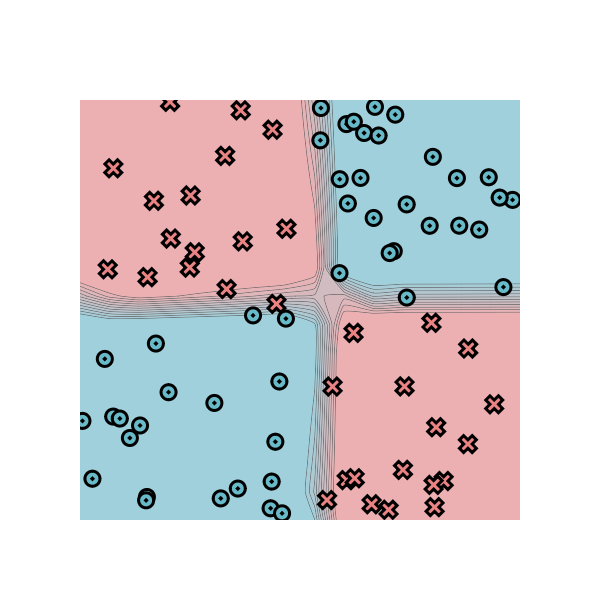
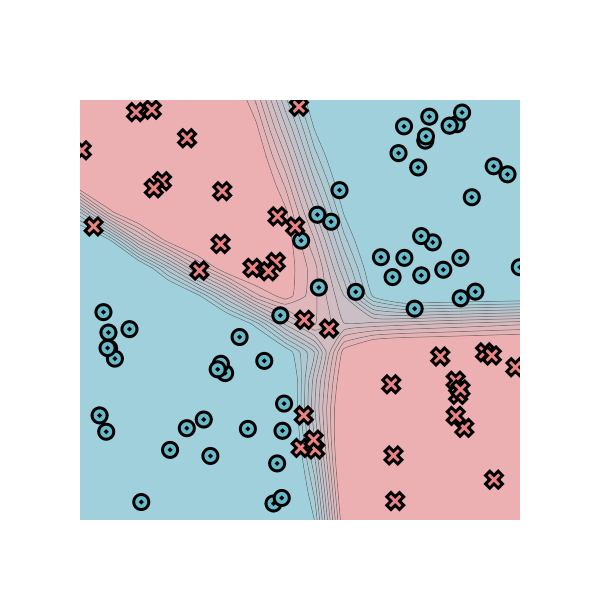
update

diff --git a/project/run_tensor.py b/project/run_tensor.py
@@ -31,9 +31,11 @@ class Linear(minitorch.Module):
     def __init__(self, in_size, out_size):
         super().__init__()
 
-        self.weights = self.add_parameter("weights", minitorch.rand((in_size, out_size), requires_grad=True))
+        self.weights = RParam(in_size, out_size)
+        self.weights.name = "weights"
 
-        self.bias = self.add_parameter("bias", minitorch.rand((out_size, ), requires_grad=True))
+        self.bias = RParam(out_size,)
+        self.bias.name = "bias"
 
 
     def forward(self, inputs):

diff --git a/minitorch/tensor_functions.py b/minitorch/tensor_functions.py
@@ -140,7 +140,7 @@ class Sigmoid(Function):
     @staticmethod
     def backward(ctx: Context, grad_output: Tensor) -> Tensor:
         """Backward for sigmoid."""
-        (out, ) = ctx.saved_values
+        (out,) = ctx.saved_values
         # out * (1 - out) * c
         # Why do this? I don't want to store context or history in backwards operations
         minus1 = minitorch.Tensor.make([-1.0], (1,), backend=grad_output.backend)

diff --git a/README.md b/README.md
@@ -232,66 +232,68 @@ Images:
 
 ## Xor Model
 
+Note that at this point, I switched to using RParam instead of my original, which just called rand() and did not recenter the mean. This seems to do much better.
+
 Parameters:
 
-    PTS = 80
+    PTS = 90
     DATASET = minitorch.datasets["Xor"](PTS)
-    HIDDEN = 6
+    HIDDEN = 8
     RATE = 0.5
 
 Log:
 
     Epoch: 0/500, loss: 0, correct: 0
-    Epoch: 10/500, loss: 49.09923021586721, correct: 48
-    Epoch: 20/500, loss: 45.1100866130393, correct: 61
-    Epoch: 30/500, loss: 39.831901960180055, correct: 69
-    Epoch: 40/500, loss: 34.811831907292984, correct: 69
-    Epoch: 50/500, loss: 30.630520232016938, correct: 70
-    Epoch: 60/500, loss: 31.12011916779207, correct: 65
-    Epoch: 70/500, loss: 26.275978376180316, correct: 71
-    Epoch: 80/500, loss: 24.10176440721233, correct: 72
-    Epoch: 90/500, loss: 24.153893182646826, correct: 71
-    Epoch: 100/500, loss: 22.256547073471268, correct: 70
-    Epoch: 110/500, loss: 16.175819292492044, correct: 75
-    Epoch: 120/500, loss: 21.560661999142027, correct: 72
-    Epoch: 130/500, loss: 13.043151071902756, correct: 76
-    Epoch: 140/500, loss: 11.473270813904549, correct: 77
-    Epoch: 150/500, loss: 11.594271593294582, correct: 75
-    Epoch: 160/500, loss: 10.955987282786134, correct: 75
-    Epoch: 170/500, loss: 11.982216453651928, correct: 76
-    Epoch: 180/500, loss: 8.00569983791093, correct: 79
-    Epoch: 190/500, loss: 7.203885924026894, correct: 79
-    Epoch: 200/500, loss: 6.760642941771417, correct: 79
-    Epoch: 210/500, loss: 7.761531572811856, correct: 77
-    Epoch: 220/500, loss: 7.412261022210462, correct: 77
-    Epoch: 230/500, loss: 6.764547695031046, correct: 77
-    Epoch: 240/500, loss: 6.021315070027755, correct: 77
-    Epoch: 250/500, loss: 5.610709242944872, correct: 78
-    Epoch: 260/500, loss: 5.291932189747587, correct: 78
-    Epoch: 270/500, loss: 4.872199955961023, correct: 79
-    Epoch: 280/500, loss: 4.420760622895471, correct: 79
-    Epoch: 290/500, loss: 3.859335349599387, correct: 79
-    Epoch: 300/500, loss: 3.5498510412545787, correct: 80
-    Epoch: 310/500, loss: 3.3622107522426004, correct: 80
-    Epoch: 320/500, loss: 3.2045410382713806, correct: 80
-    Epoch: 330/500, loss: 3.073954234688987, correct: 80
-    Epoch: 340/500, loss: 2.9553578658010413, correct: 80
-    Epoch: 350/500, loss: 2.8466962036502634, correct: 80
-    Epoch: 360/500, loss: 2.7616575871435622, correct: 80
-    Epoch: 370/500, loss: 2.672461826308091, correct: 80
-    Epoch: 380/500, loss: 2.5751743130954114, correct: 80
-    Epoch: 390/500, loss: 2.4913786662229684, correct: 80
-    Epoch: 400/500, loss: 2.415676311426365, correct: 80
-    Epoch: 410/500, loss: 2.3454795799287407, correct: 80
-    Epoch: 420/500, loss: 2.2860924303649393, correct: 80
-    Epoch: 430/500, loss: 2.221265020543546, correct: 80
-    Epoch: 440/500, loss: 2.162472107647389, correct: 80
-    Epoch: 450/500, loss: 2.1074375759992945, correct: 80
-    Epoch: 460/500, loss: 2.0597158631645205, correct: 80
-    Epoch: 470/500, loss: 2.0125353690273733, correct: 80
-    Epoch: 480/500, loss: 1.9908330774702843, correct: 80
-    Epoch: 490/500, loss: 2.0101010226649354, correct: 79
-    Epoch: 500/500, loss: 2.1341354938703425, correct: 79
+    Epoch: 10/500, loss: 60.666510891515216, correct: 55
+    Epoch: 20/500, loss: 58.919450256363646, correct: 55
+    Epoch: 30/500, loss: 56.87044942927245, correct: 55
+    Epoch: 40/500, loss: 55.44319779328784, correct: 55
+    Epoch: 50/500, loss: 53.63411378725782, correct: 55
+    Epoch: 60/500, loss: 51.488446924166794, correct: 63
+    Epoch: 70/500, loss: 61.408534630377446, correct: 45
+    Epoch: 80/500, loss: 48.91109802030681, correct: 74
+    Epoch: 90/500, loss: 50.30223016784453, correct: 67
+    Epoch: 100/500, loss: 47.57993214470271, correct: 66
+    Epoch: 110/500, loss: 46.06846633379323, correct: 65
+    Epoch: 120/500, loss: 45.727304048157514, correct: 64
+    Epoch: 130/500, loss: 43.053838253323484, correct: 67
+    Epoch: 140/500, loss: 45.58842579983267, correct: 66
+    Epoch: 150/500, loss: 38.349791306512095, correct: 71
+    Epoch: 160/500, loss: 43.57084457553834, correct: 66
+    Epoch: 170/500, loss: 37.54770612137232, correct: 71
+    Epoch: 180/500, loss: 37.68544710550717, correct: 71
+    Epoch: 190/500, loss: 37.35795281117378, correct: 71
+    Epoch: 200/500, loss: 34.983976122168045, correct: 73
+    Epoch: 210/500, loss: 35.154377958474164, correct: 74
+    Epoch: 220/500, loss: 37.79057707757425, correct: 72
+    Epoch: 230/500, loss: 32.92176877560897, correct: 75
+    Epoch: 240/500, loss: 34.45542347513146, correct: 74
+    Epoch: 250/500, loss: 32.545498085687086, correct: 75
+    Epoch: 260/500, loss: 33.87909189737113, correct: 74
+    Epoch: 270/500, loss: 34.44433674258542, correct: 72
+    Epoch: 280/500, loss: 32.73111106898863, correct: 73
+    Epoch: 290/500, loss: 31.492244399980112, correct: 75
+    Epoch: 300/500, loss: 31.763336313299046, correct: 74
+    Epoch: 310/500, loss: 31.624436246392932, correct: 74
+    Epoch: 320/500, loss: 30.373124710018548, correct: 76
+    Epoch: 330/500, loss: 31.14543384512887, correct: 74
+    Epoch: 340/500, loss: 28.710443159623303, correct: 76
+    Epoch: 350/500, loss: 33.02500907882589, correct: 72
+    Epoch: 360/500, loss: 26.43722805315093, correct: 78
+    Epoch: 370/500, loss: 28.59348278512207, correct: 75
+    Epoch: 380/500, loss: 32.30019593119725, correct: 72
+    Epoch: 390/500, loss: 22.587649715304643, correct: 81
+    Epoch: 400/500, loss: 44.48742740942838, correct: 65
+    Epoch: 410/500, loss: 18.407830760046558, correct: 85
+    Epoch: 420/500, loss: 65.26154544771254, correct: 60
+    Epoch: 430/500, loss: 17.91570041916815, correct: 86
+    Epoch: 440/500, loss: 16.27239565463117, correct: 86
+    Epoch: 450/500, loss: 45.51260582964273, correct: 65
+    Epoch: 460/500, loss: 16.463931250263037, correct: 86
+    Epoch: 470/500, loss: 15.41605207098817, correct: 86
+    Epoch: 480/500, loss: 77.08203913021042, correct: 59
+    Epoch: 490/500, loss: 14.661494015069383, correct: 86
+    Epoch: 500/500, loss: 13.210031641792606, correct: 86
 
 Images:
 
